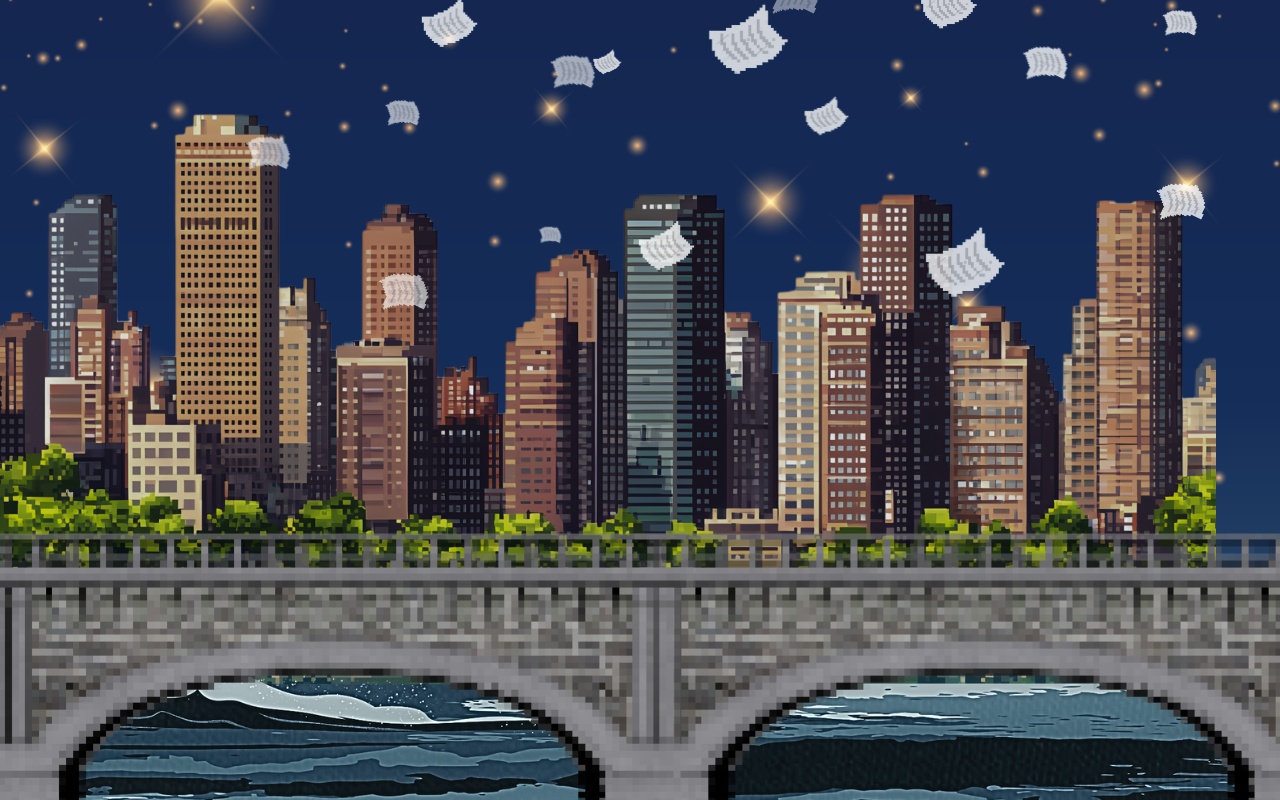
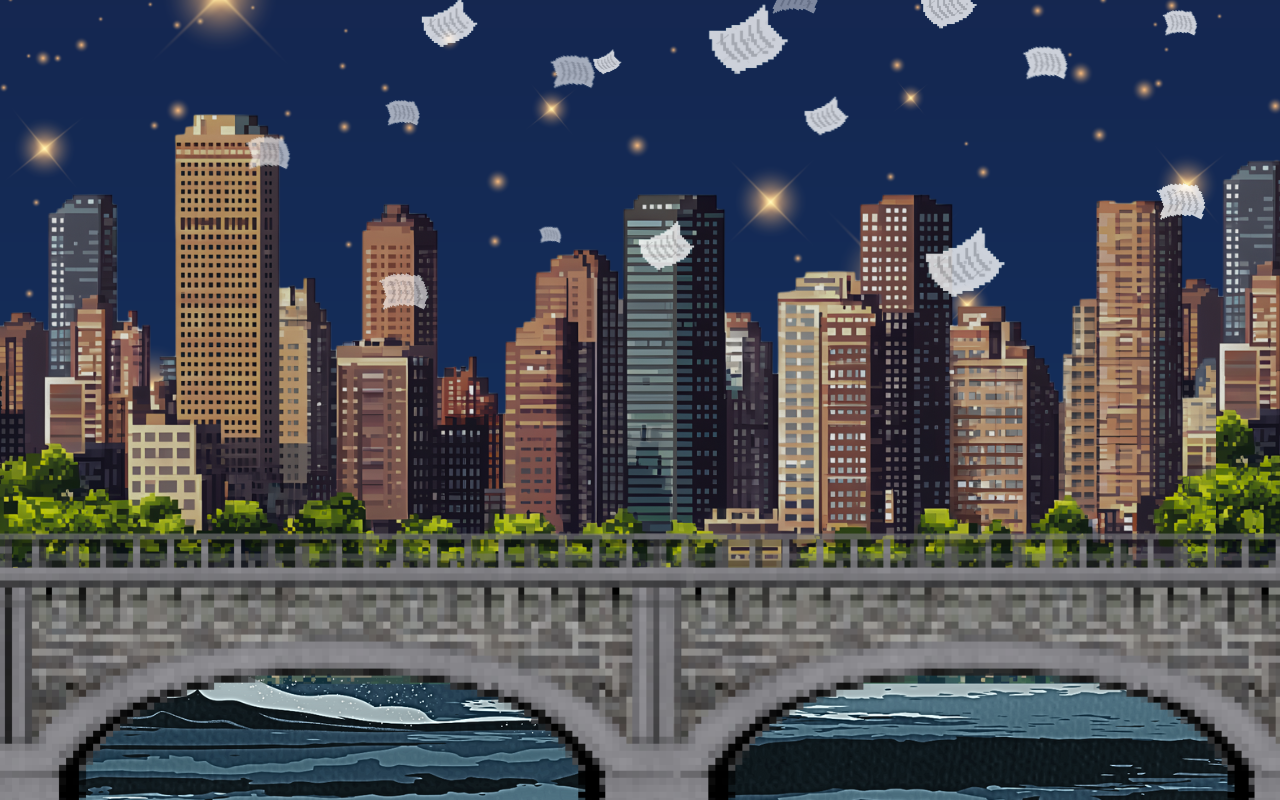
Add animated background support to LevelSelectScreen with multiple frames

Changed region(s): [[0.9062, 0.1875, 1.0, 0.7188]]

diff --git a/src/main/java/com/mygdx/game/LevelSelectScreen.java b/src/main/java/com/mygdx/game/LevelSelectScreen.java
@@ -8,11 +8,11 @@ import com.badlogic.gdx.graphics.GL20;
 import com.badlogic.gdx.graphics.g2d.BitmapFont;
 import com.badlogic.gdx.graphics.g2d.TextureAtlas;
 import com.badlogic.gdx.graphics.g2d.TextureRegion;
+import com.badlogic.gdx.scenes.scene2d.InputEvent;
 import com.badlogic.gdx.scenes.scene2d.Stage;
 import com.badlogic.gdx.scenes.scene2d.ui.Image;
 import com.badlogic.gdx.scenes.scene2d.ui.ImageButton;
 import com.badlogic.gdx.scenes.scene2d.ui.Label;
-import com.badlogic.gdx.scenes.scene2d.InputEvent;
 import com.badlogic.gdx.scenes.scene2d.utils.ClickListener;
 import com.badlogic.gdx.scenes.scene2d.utils.TextureRegionDrawable;
 import com.badlogic.gdx.utils.viewport.ScreenViewport;
@@ -46,6 +46,12 @@ public class LevelSelectScreen implements Screen {
     // TextureAtlas containing all UI sprites
     private TextureAtlas uiAtlas;
     private BitmapFont buttonFont;  // Font for "Level 1", "Level 2", etc.
+    // Animated background frames
+    private com.badlogic.gdx.graphics.Texture[] bgTextures = null;
+    private com.badlogic.gdx.graphics.g2d.TextureRegion[] bgRegions = null;
+    private com.badlogic.gdx.scenes.scene2d.ui.Image animatedBg = null;
+    private float bgAnimTime = 0f;
+    private static final float BG_FRAME_DURATION = 0.5f; // slower animation (0.5s per frame)
 
     public LevelSelectScreen(MyGdxGame game) {
         this.game = game;
@@ -116,16 +122,52 @@ public class LevelSelectScreen implements Screen {
      * This ensures ONLY the hovered button highlights, while others remain normal.
      */
     private void initializeUI() {
-        // 1. Add level_bg (1280x800) as background
-        TextureRegion bgRegion = uiAtlas.findRegion("level_bg");
-        if (bgRegion != null) {
-            Image background = new Image(bgRegion);
-            background.setSize(1280, 800);  // Stretch to full screen
-            background.setPosition(0, 0);
-            stage.addActor(background);
-            Gdx.app.log("[LevelSelectScreen]", "✓ Background (level_bg) added at 1280x800");
+        // 1. Add animated background (try loading frames from assets/Level BG/2.png..13.png)
+        String[] framePaths = new String[] {
+            "Level BG/2.png","Level BG/3.png","Level BG/4.png","Level BG/5.png",
+            "Level BG/6.png","Level BG/7.png","Level BG/8.png","Level BG/9.png",
+            "Level BG/10.png","Level BG/11.png","Level BG/12.png","Level BG/13.png"
+        };
+        java.util.List<com.badlogic.gdx.graphics.Texture> loaded = new java.util.ArrayList<>();
+        String userDir = System.getProperty("user.dir");
+        for (String p : framePaths) {
+            try {
+                com.badlogic.gdx.files.FileHandle fh = null;
+                if (Gdx.files.internal(p).exists()) fh = Gdx.files.internal(p);
+                else if (Gdx.files.absolute(userDir + "/assets/" + p).exists()) fh = Gdx.files.absolute(userDir + "/assets/" + p);
+                if (fh != null) {
+                    com.badlogic.gdx.graphics.Texture t = new com.badlogic.gdx.graphics.Texture(fh);
+                    t.setFilter(com.badlogic.gdx.graphics.Texture.TextureFilter.Linear, com.badlogic.gdx.graphics.Texture.TextureFilter.Linear);
+                    loaded.add(t);
+                    Gdx.app.log("[LevelSelectScreen]", "Loaded bg frame: " + p);
+                } else {
+                    Gdx.app.log("[LevelSelectScreen]", "bg frame not found: " + p);
+                }
+            } catch (Exception e) {
+                Gdx.app.error("[LevelSelectScreen]", "Error loading bg frame: " + p, e);
+            }
+        }
+        if (!loaded.isEmpty()) {
+            bgTextures = loaded.toArray(new com.badlogic.gdx.graphics.Texture[0]);
+            bgRegions = new com.badlogic.gdx.graphics.g2d.TextureRegion[bgTextures.length];
+            for (int i = 0; i < bgTextures.length; i++) bgRegions[i] = new com.badlogic.gdx.graphics.g2d.TextureRegion(bgTextures[i]);
+            animatedBg = new Image(bgRegions[0]);
+            // Make the animated background fill the stage/viewport
+            animatedBg.setFillParent(true);
+            stage.addActor(animatedBg);
+            Gdx.app.log("[LevelSelectScreen]", "✓ Animated background added with " + bgRegions.length + " frames");
         } else {
-            Gdx.app.error("[LevelSelectScreen]", "✗ level_bg not found in atlas");
+            // fallback to atlas region
+            TextureRegion bgRegion = uiAtlas.findRegion("level_bg");
+            if (bgRegion != null) {
+                Image background = new Image(bgRegion);
+                // Ensure fallback also fills the screen
+                background.setFillParent(true);
+                stage.addActor(background);
+                Gdx.app.log("[LevelSelectScreen]", "✓ Background (level_bg) added (fallback, fill parent)");
+            } else {
+                Gdx.app.error("[LevelSelectScreen]", "✗ No animated bg frames found and level_bg not in atlas");
+            }
         }
         
         // 2. Add title_selectlevel centered at top
@@ -314,6 +356,13 @@ public class LevelSelectScreen implements Screen {
         // Handle keyboard navigation
         handleKeyboardInput();
         
+        // Advance background animation (if available)
+        if (animatedBg != null && bgRegions != null && bgRegions.length > 0) {
+            bgAnimTime += delta;
+            int frame = (int)(bgAnimTime / BG_FRAME_DURATION) % bgRegions.length;
+            animatedBg.setDrawable(new TextureRegionDrawable(bgRegions[frame]));
+        }
+
         // Update and draw stage
         stage.act(delta);
         stage.draw();
@@ -365,6 +414,12 @@ public class LevelSelectScreen implements Screen {
         }
         if (buttonFont != null) {
             buttonFont.dispose();
+        }
+        if (bgTextures != null) {
+            for (com.badlogic.gdx.graphics.Texture t : bgTextures) {
+                if (t != null) t.dispose();
+            }
+            bgTextures = null;
         }
     }
 }
